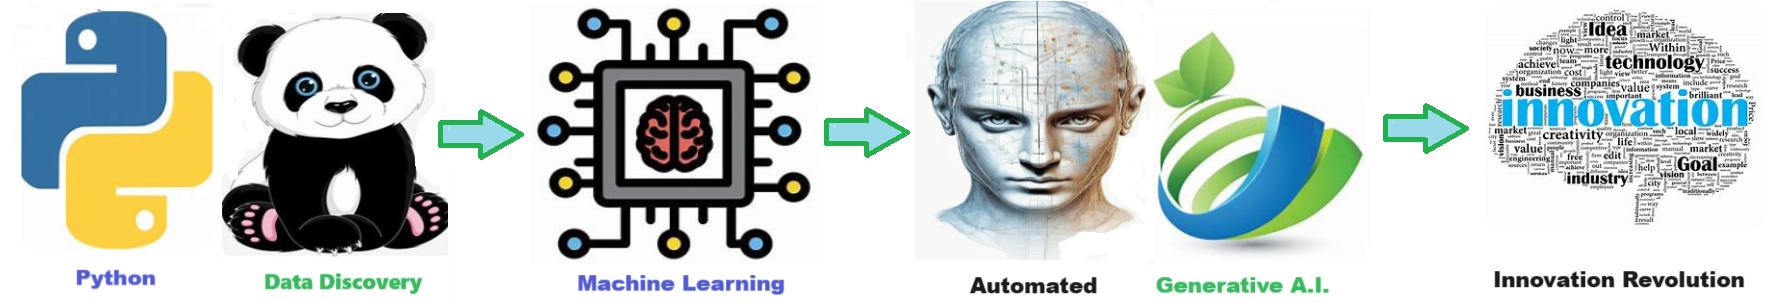
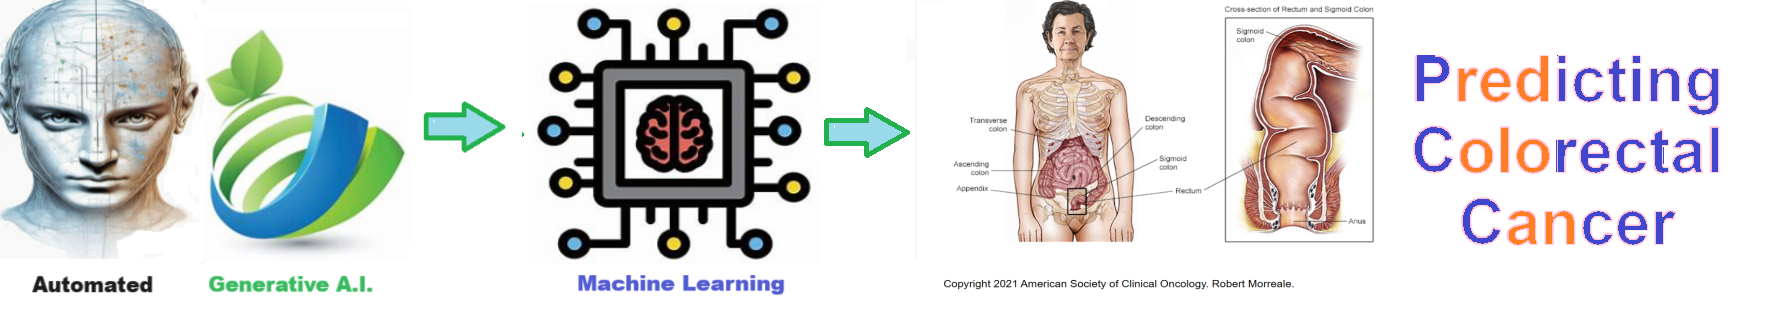
first commit

diff --git a/readme.md b/readme.md
@@ -1,19 +1,41 @@
 
-# Predicting Colorectal Cancer - Machine learning for predicting colorectal cancer.
+# Predicting Colorectal Cancer - Machine learning for predicting Colorectal cancer.
 
 ![Code Logo](code.png)
 ## Description
 
-Welcome to the solution Predicting Colorectal Cancer - an example for your projects
+Welcome to the solution **Predicting Colorectal Cancer** - a Machine learning framework.
 
-Machine learning for predicting colorectal cancer.
+Machine learning for predicting Colorectal cancer.
     
-## Features
-- Easy to understand and use  
-- Easily Configurable 
-- Quickly start your project with pre-built templates
-- Its Fast and Automated
-    
+## Explanation of each Machine Learning Model:
+
+1. **Logistic Regression** : A linear model used for binary classification that estimates the probability of a sample belonging to a particular class.
+
+2. **Decision Tree**: A tree-like model that splits the data into subsets based on the value of input features, making decisions based on feature values to classify instances.
+
+3. **K-Nearest Neighbor (KNN)**: A non-parametric method used for classification by finding the 'k' nearest data points in the feature space and assigning the most common class among them to the query point.
+
+4. **Gaussian Naive Bayes** : A probabilistic classifier based on Bayes' theorem with the assumption of independence among features, often used for text classification tasks.
+
+5. **Multinomial Naive Bayes**: Similar to Gaussian Naive Bayes but specifically designed for classification tasks with discrete features, such as word counts in text classification.
+
+6. **Support Vector Classifier (SVC)**: A supervised learning algorithm that finds the hyperplane that best separates classes in a high-dimensional space, often used for binary classification.
+
+7. **Random Forest**: An ensemble learning method that constructs multiple decision trees during training and outputs the mode of the classes (classification) or the mean prediction (regression) of the individual trees.
+
+8. **XGBoost**: An optimized gradient boosting library that implements machine learning algorithms under the Gradient Boosting framework, known for its speed and performance in handling large datasets.
+
+9. **Multi-layer Perceptron (MLP)**: A type of artificial neural network composed of multiple layers of nodes (neurons) that can learn non-linear relationships between input and output data.
+
+10. **Gradient Boosting Classifier**: A machine learning technique that builds an ensemble of weak learners (typically decision trees) in a sequential manner, with each tree correcting the errors of its predecessors, resulting in a strong predictive model.
+
+
+![Code Logo](sample.png)
+
+
+
+
 ## Notebook Features
 - Self Documenting 
 - Self Testing 
